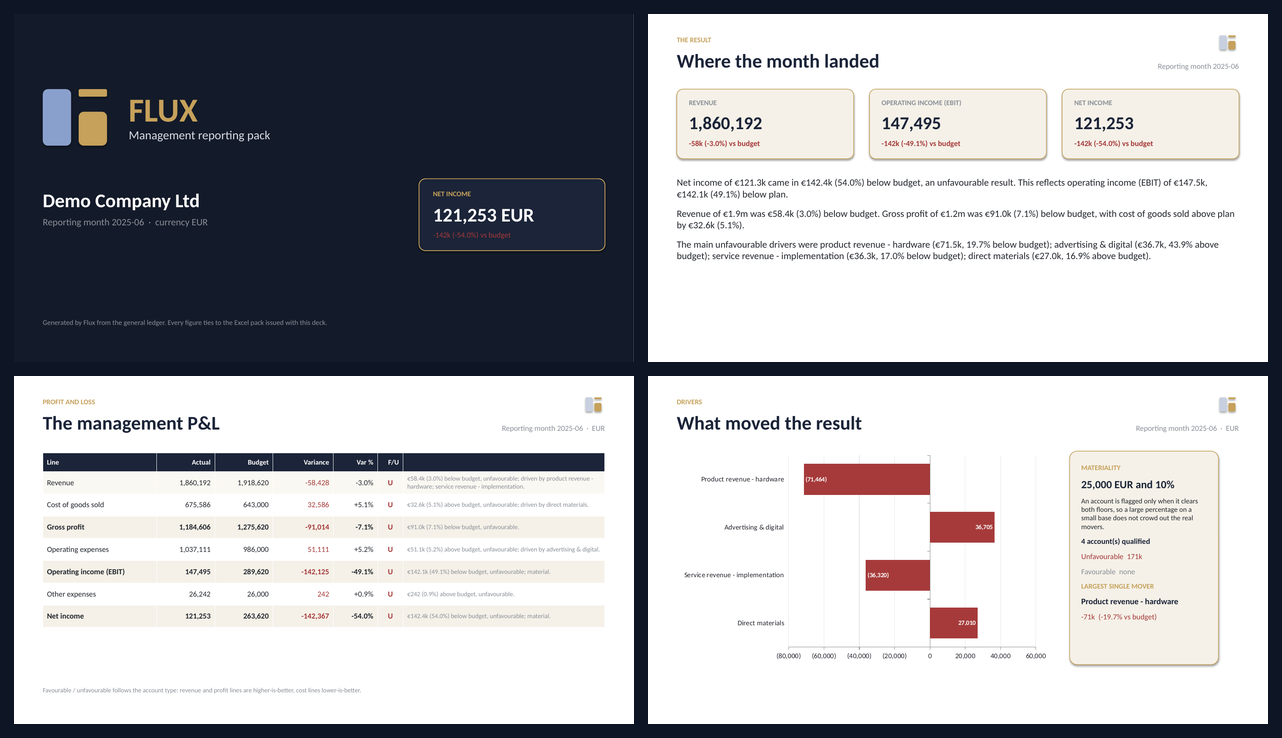
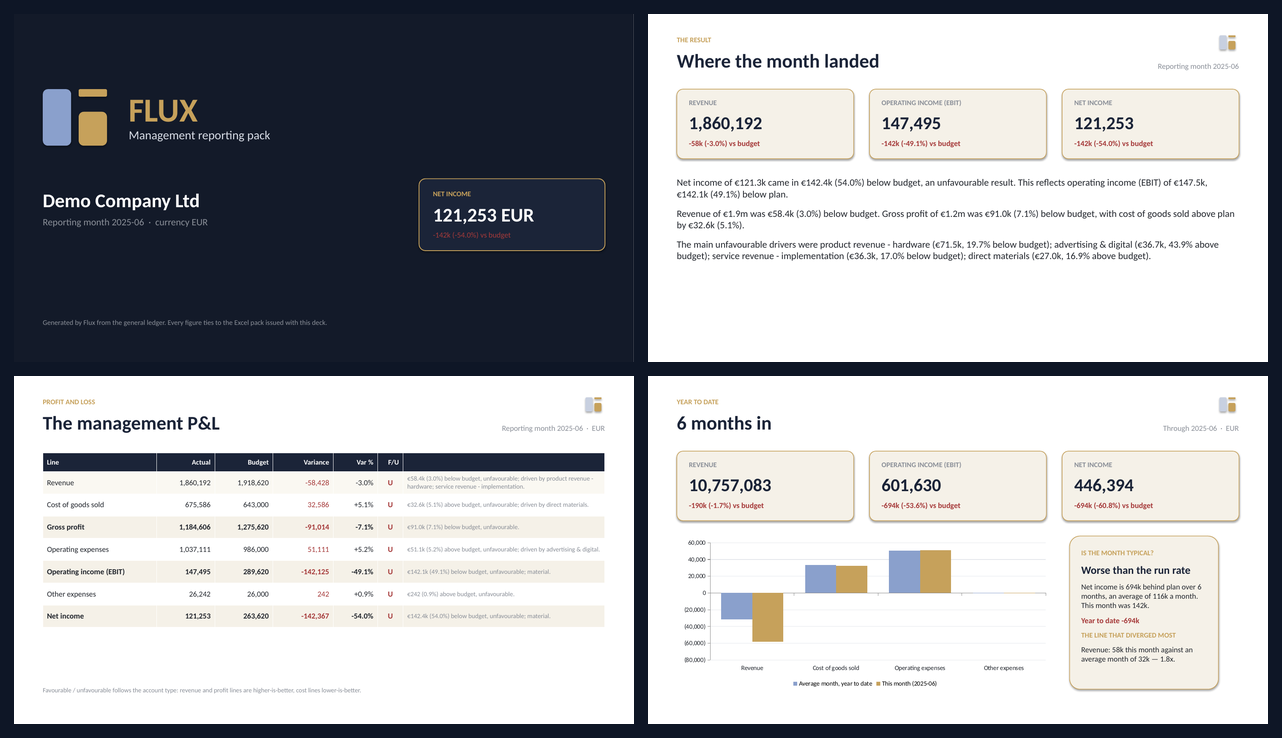
Add the year-to-date slide: is the month a blip or the run rate

Changed region(s): [[0.5304, 0.5298, 0.9672, 0.935], [0.936, 0.9038, 0.9672, 0.935]]

diff --git a/src/flux/reporting/pptx_pack.py b/src/flux/reporting/pptx_pack.py
@@ -355,6 +355,116 @@ def _pnl_table(prs, report, comments, period, budgeted):
 # ---------------------------------------------------------------------------
 # Slide 4 - what moved it
 # ---------------------------------------------------------------------------
+def _year_to_date(prs, ytd_report, month_report, months, period, budgeted):
+    """The cumulative view, and whether the month is typical of it.
+
+    A repeat of the monthly table under a different heading would add pages
+    without adding an answer. The question a cumulative slide exists to settle
+    is whether the month is a blip or the run rate, so the chart puts the
+    month's variance beside the average month of the year so far.
+    """
+    s = _blank(prs)
+    _slide_header(s, "Year to date", f"{months} months in",
+                  f"Through {period}  ·  EUR")
+
+    def line(report, label):
+        return report[report.line == label].iloc[0]
+
+    gap = Inches(0.34)
+    cw = (W - 2 * MARGIN - 2 * gap) / 3
+    for i, label in enumerate(("Revenue", "Operating income (EBIT)", "Net income")):
+        r = line(ytd_report, label)
+        _kpi_card(s, MARGIN + i * (cw + gap), Inches(1.62), cw, label, r.actual,
+                  f"{_signed(r.var_bud)} ({_pct(r.var_bud_pct)}) vs budget",
+                  r.fav_unfav == "F", budgeted)
+
+    cats = ["Revenue", "Cost of goods sold", "Operating expenses", "Other expenses"]
+    this_month = [float(line(month_report, c).var_bud) for c in cats]
+    average = [float(line(ytd_report, c).var_bud) / months for c in cats]
+
+    data = CategoryChartData()
+    data.categories = cats
+    data.add_series("Average month, year to date", tuple(average))
+    data.add_series(f"This month ({period})", tuple(this_month))
+
+    gf = s.shapes.add_chart(XL_CHART_TYPE.COLUMN_CLUSTERED, MARGIN, Inches(3.45),
+                            Inches(8.1), Inches(3.3), data)
+    chart = gf.chart
+    chart.has_title = False
+    chart.has_legend = True
+    chart.legend.position = XL_LEGEND_POSITION.BOTTOM
+    chart.legend.include_in_layout = False
+    chart.legend.font.size = Pt(10)
+    chart.legend.font.name = FONT
+    chart.plots[0].gap_width = 70
+    for series, colour in zip(chart.series, (SLATE, BRASS)):
+        series.format.fill.solid()
+        series.format.fill.fore_color.rgb = colour
+        series.invert_if_negative = False
+    for axis in (chart.category_axis, chart.value_axis):
+        axis.tick_labels.font.size = Pt(10)
+        axis.tick_labels.font.name = FONT
+        axis.tick_labels.font.color.rgb = INK
+    chart.category_axis.has_major_gridlines = False
+    # Category names go under the plot, not on the zero line, where a negative
+    # column would otherwise be drawn straight through them.
+    chart.category_axis.tick_label_position = XL_TICK_LABEL_POSITION.LOW
+    chart.value_axis.has_major_gridlines = True
+    chart.value_axis.major_gridlines.format.line.color.rgb = RGBColor(0xE4, 0xE7, 0xEC)
+    chart.value_axis.major_gridlines.format.line.width = Pt(0.75)
+    chart.value_axis.tick_labels.number_format = '#,##0;(#,##0)'
+    chart.value_axis.tick_labels.number_format_is_linked = False
+
+    # Name the read rather than leaving it to be inferred from two bar heights.
+    ni_m = line(month_report, "Net income")
+    ni_y = line(ytd_report, "Net income")
+    run_rate = ni_y.var_bud / months
+    worse = abs(ni_m.var_bud) > abs(run_rate) * 1.15
+    better = abs(ni_m.var_bud) < abs(run_rate) * 0.85
+    verdict = ("worse than the run rate" if worse
+               else "better than the run rate" if better
+               else "in line with the run rate")
+
+    # Which category departs furthest from its own run rate: the chart shows the
+    # gaps, this names the one worth asking about.
+    spreads = []
+    for c, m_var, avg in zip(cats, this_month, average):
+        if abs(avg) >= 1_000:
+            spreads.append((abs(m_var / avg), c, m_var, avg))
+    if spreads:
+        ratio, cat, m_var, avg = max(spreads)
+        outlier = (f"{cat}: {_mag(abs(m_var))} this month against an average "
+                   f"month of {_mag(abs(avg))} — {ratio:.1f}x.")
+    else:
+        outlier = "No category departs materially from its own run rate."
+
+    panel = s.shapes.add_shape(MSO_SHAPE.ROUNDED_RECTANGLE,
+                               MARGIN + Inches(8.45), Inches(3.45),
+                               Inches(3.2), Inches(3.3))
+    panel.adjustments[0] = 0.07
+    _fill(panel, IVORY, line=BRASS, width=Pt(1))
+    runs = [("IS THE MONTH TYPICAL?", 11, True, BRASS), None,
+            (verdict.capitalize(), 17, True, NAVY), None,
+            (f"Net income is {_mag(abs(ni_y.var_bud))} behind plan over {months} "
+             f"months, an average of {_mag(abs(run_rate))} a month. This month was "
+             f"{_mag(abs(ni_m.var_bud))}.", 12, False, INK), None,
+            (f"Year to date {_signed(ni_y.var_bud)}", 12, True,
+             GREEN if ni_y.fav_unfav == "F" else RED), None,
+            ("THE LINE THAT DIVERGED MOST", 11, True, BRASS), None,
+            (outlier, 12, False, INK)]
+    _text(s, MARGIN + Inches(8.7), Inches(3.72), Inches(2.7), Inches(2.8), runs,
+          spacing=Pt(9))
+
+    s.notes_slide.notes_text_frame.text = (
+        "The cumulative variance divided by months elapsed gives the average "
+        "month. Comparing this month against it separates a one-off from a trend."
+    )
+    return s
+
+
+# ---------------------------------------------------------------------------
+# Slide - what moved it
+# ---------------------------------------------------------------------------
 def _drivers(prs, gl, materiality, period, budgeted):
     s = _blank(prs)
     _slide_header(s, "Drivers", "What moved the result", f"Reporting month {period}  ·  EUR")
@@ -537,6 +647,8 @@ def build_pptx_pack(gl: pd.DataFrame,
                     period: str,
                     out_path: str | Path,
                     detail: pd.DataFrame | None = None,
+                    ytd: pd.DataFrame | None = None,
+                    months: int | None = None,
                     entity: str = "Demo Company Ltd",
                     materiality: MaterialityRule | None = None,
                     budgeted: bool | None = None) -> Path:
@@ -548,6 +660,10 @@ def build_pptx_pack(gl: pd.DataFrame,
     period : reporting period label, e.g. "2025-06".
     detail : optional transaction-level frame carrying department and entity.
         Without it the spend slide is omitted rather than faked.
+    ytd : optional account-level frame cumulative to `period`. Without it the
+        cumulative slide is omitted; a single-period file has no year to date,
+        and repeating the month under that heading would be a lie.
+    months : periods elapsed, used for the average month. Derived as needed.
     budgeted : whether a plan exists; detected from the data when omitted.
     """
     materiality = materiality or MaterialityRule()
@@ -562,6 +678,10 @@ def build_pptx_pack(gl: pd.DataFrame,
     _cover(prs, entity, period, ni, budgeted)
     _result(prs, report, gl, period, budgeted)
     _pnl_table(prs, report, comments, period, budgeted)
+    if ytd is not None and not ytd.empty and budgeted:
+        elapsed = months or max(1, int(period[5:7]))
+        _year_to_date(prs, build_report(ytd, materiality, budgeted=True),
+                      report, elapsed, period, budgeted)
     if budgeted:
         _drivers(prs, gl, materiality, period, budgeted)
     if detail is not None and {"department", "entity"} <= set(detail.columns):
@@ -574,10 +694,29 @@ def build_pptx_pack(gl: pd.DataFrame,
 
 
 if __name__ == "__main__":  # pragma: no cover - manual run
-    from ..synthetic_data import generate_month, monthly_detail
+    from .. import ingest
+    from ..synthetic_data import (DEFAULT_PERIOD, generate_budget_year,
+                                  generate_month, generate_ytd_transactions,
+                                  monthly_detail)
     root = Path(__file__).resolve().parents[3]
-    period = "2025-06"
+    period = DEFAULT_PERIOD
+
+    # Roll the demo ledger and plan up to the reporting month.
+    cut = ingest.period_key(period)
+    txn = generate_ytd_transactions(period)
+    bud = generate_budget_year()
+    a = (txn[txn.period_no <= cut]
+         .groupby(["account_code", "account_name", "category"], as_index=False)
+         ["amount_eur"].sum().rename(columns={"amount_eur": "actual"}))
+    b = (bud[bud.period_no <= cut]
+         .groupby(["account_code", "account_name", "category"], as_index=False)
+         [["budget_eur", "prior_eur"]].sum()
+         .rename(columns={"budget_eur": "budget", "prior_eur": "prior_year"}))
+    ytd_frame = a.merge(b, on=["account_code", "account_name", "category"],
+                        how="outer").fillna(0.0)
+
     out = build_pptx_pack(generate_month(period).drop(columns="period"), period,
                           root / "output" / "flux_management_pack.pptx",
-                          detail=monthly_detail(period))
+                          detail=monthly_detail(period), ytd=ytd_frame,
+                          months=txn[txn.period_no <= cut]["period"].nunique())
     print(f"Written: {out}")

diff --git a/app.py b/app.py
@@ -26,7 +26,8 @@ from flux.ingest import (match_columns, _content_detect, apply_mapping,
                          CANONICAL, REQUIRED)
 from flux.engine import build_report, has_budget
 from flux.reporting import build_client_pack, build_demo_pack, build_pptx_pack
-from flux.synthetic_data import generate_month, monthly_detail
+from flux.synthetic_data import (generate_budget_year, generate_month,
+                                 generate_ytd_transactions, monthly_detail)
 
 
 ASSETS = Path(__file__).resolve().parent / "assets"
@@ -66,6 +67,27 @@ st.sidebar.caption(
     "Upload your own GL/trial balance, or use the built-in sample company "
     "(multi-entity, multi-currency) to see the full pack."
 )
+
+
+@st.cache_data(show_spinner=False)
+def _sample_ytd() -> pd.DataFrame:
+    """The demo ledger and plan rolled up to the reporting month.
+
+    Cached: it is the same frame on every click, and rolling five thousand
+    postings up again would add a second to a button the user is watching.
+    """
+    cut = ingest.period_key(SAMPLE_PERIOD)
+    txn = generate_ytd_transactions(SAMPLE_PERIOD)
+    bud = generate_budget_year()
+    actual = (txn[txn.period_no <= cut]
+              .groupby(["account_code", "account_name", "category"], as_index=False)
+              ["amount_eur"].sum().rename(columns={"amount_eur": "actual"}))
+    plan = (bud[bud.period_no <= cut]
+            .groupby(["account_code", "account_name", "category"], as_index=False)
+            [["budget_eur", "prior_eur"]].sum()
+            .rename(columns={"budget_eur": "budget", "prior_eur": "prior_year"}))
+    return actual.merge(plan, on=["account_code", "account_name", "category"],
+                        how="outer").fillna(0.0)
 
 
 def _pnl_preview(std: pd.DataFrame, budgeted: bool = True):
@@ -295,9 +317,12 @@ with tab_upload:
                            Path(tempfile.gettempdir()) / "flux_pack.xlsx")
             if gen_p.button("Generate PowerPoint deck", width="stretch"):
                 with gen_p:
+                    ytd_frame = ingest.year_to_date(std, active)
                     _build("Building the slides…", "Deck", "deck_upload",
-                           lambda o: build_pptx_pack(preview, active, o,
-                                                     budgeted=budgeted),
+                           lambda o: build_pptx_pack(
+                               preview, active, o, budgeted=budgeted,
+                               ytd=ytd_frame if not ytd_frame.empty else None,
+                               months=len(found) or None),
                            Path(tempfile.gettempdir()) / "flux_management_pack.pptx")
             with gen_x:
                 _render_download("pack_upload", "Download flux_pack.xlsx")
@@ -325,8 +350,10 @@ with tab_sample:
     if col_p.button("Generate PowerPoint deck", width="stretch"):
         with col_p:
             _build("Building the slides…", "Deck", "deck_sample",
-                   lambda o: build_pptx_pack(sample, SAMPLE_PERIOD, o,
-                                             detail=monthly_detail(SAMPLE_PERIOD)),
+                   lambda o: build_pptx_pack(
+                       sample, SAMPLE_PERIOD, o,
+                       detail=monthly_detail(SAMPLE_PERIOD),
+                       ytd=_sample_ytd(), months=int(SAMPLE_PERIOD[5:7])),
                    Path(tempfile.gettempdir()) / "flux_sample_deck.pptx")
     with col_x:
         _render_download("pack_sample", "Download flux_sample_pack.xlsx")

diff --git a/tests/audit.py b/tests/audit.py
@@ -502,11 +502,26 @@ def test_workbooks() -> None:
     # --- the management deck ------------------------------------------------
     from pptx import Presentation
 
+    # The cumulative frame the year-to-date slide needs.
+    cut = ingest.period_key(PERIOD)
+    txns_ytd = generate_ytd_transactions(PERIOD)
+    bud_ytd = generate_budget_year()
+    ytd_actual = (txns_ytd[txns_ytd.period_no <= cut]
+                  .groupby(["account_code", "account_name", "category"], as_index=False)
+                  ["amount_eur"].sum().rename(columns={"amount_eur": "actual"}))
+    ytd_plan = (bud_ytd[bud_ytd.period_no <= cut]
+                .groupby(["account_code", "account_name", "category"], as_index=False)
+                [["budget_eur", "prior_eur"]].sum()
+                .rename(columns={"budget_eur": "budget", "prior_eur": "prior_year"}))
+    ytd_frame = ytd_actual.merge(ytd_plan,
+                                 on=["account_code", "account_name", "category"],
+                                 how="outer").fillna(0.0)
+
     deck = build_pptx_pack(agg, PERIOD, tmp / "deck.pptx",
-                           detail=monthly_detail(PERIOD))
+                           detail=monthly_detail(PERIOD), ytd=ytd_frame, months=6)
     prs = Presentation(deck)
-    check("Deck has all five slides with a budget", len(prs.slides._sldIdLst) == 5,
-          str(len(prs.slides._sldIdLst)))
+    check("Deck has all six slides with a budget and a year to date",
+          len(prs.slides._sldIdLst) == 6, str(len(prs.slides._sldIdLst)))
 
     words = []
     for slide in prs.slides:
@@ -521,7 +536,22 @@ def test_workbooks() -> None:
     check("Deck explains the materiality rule", "materiality" in joined.lower())
 
     charts = sum(1 for s in prs.slides for sh in s.shapes if sh.has_chart)
-    check("Deck carries native charts, not pictures of charts", charts == 2, str(charts))
+    check("Deck carries native charts, not pictures of charts", charts == 3, str(charts))
+    check("Year-to-date slide states the cumulative revenue",
+          f"{line(build_report(ytd_frame), 'Revenue').actual:,.0f}" in joined,
+          "cumulative revenue missing")
+    check("Year-to-date slide answers whether the month is typical",
+          "run rate" in joined.lower(), "run-rate read missing")
+
+    # A single-period file has no year to date; the slide must not appear.
+    no_ytd = build_pptx_pack(agg, PERIOD, tmp / "deck_single.pptx")
+    check("Deck drops the cumulative slide for a single-period file",
+          len(Presentation(no_ytd).slides._sldIdLst) == 4,
+          str(len(Presentation(no_ytd).slides._sldIdLst)))
+
+    empty_ytd = ingest.year_to_date(agg.assign(period=PERIOD), PERIOD)
+    check("A one-period frame yields no year to date rather than repeating itself",
+          empty_ytd.empty, str(len(empty_ytd)))
 
     tables = [sh.table for s in prs.slides for sh in s.shapes if sh.has_table]
     check("Deck has the P&L table", len(tables) == 1, str(len(tables)))

diff --git a/src/flux/ingest.py b/src/flux/ingest.py
@@ -292,6 +292,26 @@ def _coerce_amount(x):
     return -value if negative else value
 
 
+def year_to_date(std: pd.DataFrame, period: str) -> pd.DataFrame:
+    """Aggregate every period up to and including `period` to account level.
+
+    A file that spans several months already holds the year to date; this rolls
+    it up so the cumulative view can be reported beside the month. Returns an
+    empty frame when the data carries no periods, so callers can drop the
+    cumulative view rather than present the month twice under two labels.
+    """
+    if "period" not in std.columns:
+        return std.iloc[0:0]
+    cutoff = period_key(period)
+    if cutoff is None:
+        return std.iloc[0:0]
+    keys = std["period"].map(period_key)
+    upto = std[keys.notna() & (keys <= cutoff)]
+    if upto.empty or upto["period"].nunique() < 2:
+        return std.iloc[0:0]
+    return aggregate_to_accounts(upto.drop(columns=["period"]))
+
+
 def infer_category(code: str) -> str:
     c = str(code).strip()
     first = c[:1]

diff --git a/README.md b/README.md
@@ -64,9 +64,9 @@ automates.
 
 ![Department spend variance with cost centres nested beneath each department](docs/departments.png)
 
-**PowerPoint deck — the same numbers as five slides, for sending upward**
+**PowerPoint deck — the same numbers as six slides, for sending upward**
 
-![Four slides of the generated management deck: cover, result, P&L and drivers](docs/pptx-pack.png)
+![Four slides of the generated management deck: cover, result, P&L and year to date](docs/pptx-pack.png)
 
 ## How it works
 
@@ -84,9 +84,12 @@ automates.
 5. **Excel pack** — the workbook is written with **live formulas over an input
    sheet**, so an edited input recalculates the whole pack. The sheets that get
    built depend on the dimensions present in the data.
-6. **Deck** — the same numbers as five slides: the result, the P&L, what moved
-   it, and where the money went. Native PowerPoint charts and tables, not
-   images, so the recipient can edit them.
+6. **Deck** — the same numbers as six slides: the result, the P&L, the year to
+   date, what moved it, and where the money went. Native PowerPoint charts and
+   tables, not images, so the recipient can edit them. The cumulative slide
+   compares the month against the average month so far, which is the difference
+   between a bad month and a trend; a single-period file drops that slide rather
+   than repeat the month under a cumulative heading.
 7. **App** — a Streamlit front end for upload, mapping confirmation, preview and
    download of either output.
 
@@ -236,7 +239,7 @@ terminal only: `Set-ExecutionPolicy -Scope Process -ExecutionPolicy Bypass`.
 python tests/audit.py
 ```
 
-`PASSED all 116 checks` means everything is wired up correctly.
+`PASSED all 120 checks` means everything is wired up correctly.
 
 ### 3. Run the app
 
@@ -297,7 +300,7 @@ build_client_pack(gl, "2025-06", "pack.xlsx")
 python tests/audit.py
 ```
 
-**116 checks** covering the P&L arithmetic and roll-up, F/U logic per account
+**120 checks** covering the P&L arithmetic and roll-up, F/U logic per account
 type, the two-condition materiality rule and the not-meaningful escape, number
 and period parsing (including all four negative conventions), sign
 normalisation, column mapping (including the guard that stops a document number
